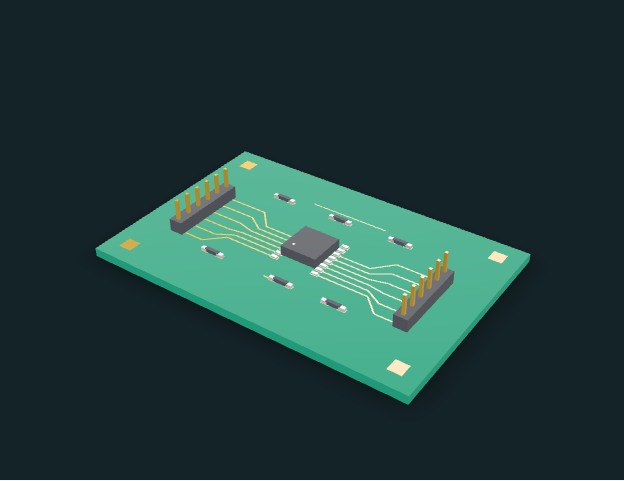
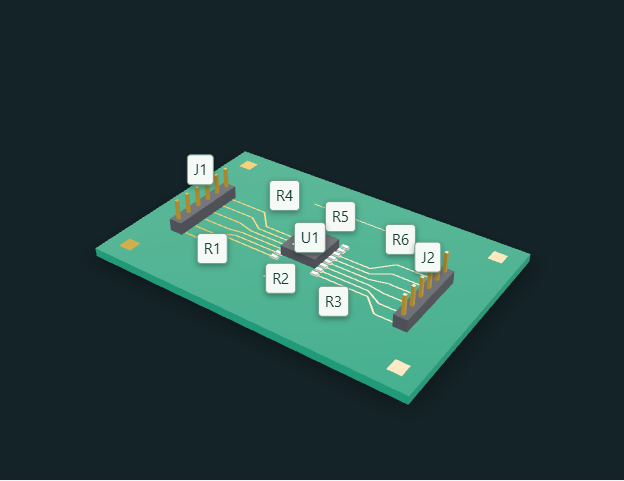
Add 3D component labels and hover identification

diff --git a/src/NativeBoard3D.tsx b/src/NativeBoard3D.tsx
@@ -3,6 +3,7 @@ import '@google/model-viewer';
 import {artifactUrl,demoMode,type Geometry,type Preview} from './api';
 import assignments from '../public/demo/models/assignments.json';
 import Board3D from './Board3D';
+import {useComponentLabels} from './ComponentLabels';
 
 export default function NativeBoard3D({pid,rid,model,geometry,preview}:{pid?:string;rid?:string;model?:Preview;geometry?:Geometry;preview?:Preview}){
  const [local,setLocal]=useState(''),[name,setName]=useState(''),[error,setError]=useState(''),[loaded,setLoaded]=useState(false);
@@ -11,11 +12,12 @@ export default function NativeBoard3D({pid,rid,model,geometry,preview}:{pid?:str
  const example=demoMode&&assignments.revisions.some(r=>r.revision===rid);
  const projectModel=pid&&rid&&model?artifactUrl(pid,rid,model.artifact):example?`${import.meta.env.BASE_URL}demo/models/${rid}.glb`:'';
  const src=local||(!fallback?projectModel:'');
+ const identifiers=useComponentLabels(viewer,geometry,preview,!!src&&!!example&&!local,src,assignments.revisions.find(r=>r.revision===rid)?.components);
  useEffect(()=>()=>{if(local)URL.revokeObjectURL(local)},[local]);
  useEffect(()=>{setLoaded(false);setError('');const el=viewer.current;if(!el)return;const ready=()=>setLoaded(true),fail=()=>setError('The 3D file could not be loaded. Choose a self-contained GLB exported from KiCad.');el.addEventListener('load',ready);el.addEventListener('error',fail);return()=>{el.removeEventListener('load',ready);el.removeEventListener('error',fail)}},[src]);
  async function open(file?:File){if(!file)return;setError('');if(file.size>100*1024*1024){setError('Choose a GLB smaller than 100 MB.');return}const bytes=new Uint8Array(await file.slice(0,4).arrayBuffer());if(String.fromCharCode(...bytes)!=='glTF'){setError('Choose a valid binary glTF (.glb) file.');return}setLocal(URL.createObjectURL(file));setName(file.name)}
- return <div className="native-board3d"><div className="native-model-toolbar"><strong>{src?(example&&!local?'KiCad library component models':'Native 3D model'):'3D geometry preview'}</strong><label className="native-model-open">Open GLB<input type="file" accept=".glb" onChange={e=>{void open(e.target.files?.[0]);e.target.value=''}}/></label>{local&&<button onClick={()=>{setLocal('');setName('');setFallback(false)}}>Use project model</button>}{projectModel&&!local&&<button onClick={()=>setFallback(v=>!v)}>{fallback?'Show component models':'Geometry preview'}</button>}</div>
+ return <div className="native-board3d"><div className="native-model-toolbar"><strong>{src?(example&&!local?'KiCad library component models':'Native 3D model'):'3D geometry preview'}</strong>{identifiers.control}<label className="native-model-open">Open GLB<input type="file" accept=".glb" onChange={e=>{void open(e.target.files?.[0]);e.target.value=''}}/></label>{local&&<button onClick={()=>{setLocal('');setName('');setFallback(false)}}>Use project model</button>}{projectModel&&!local&&<button onClick={()=>setFallback(v=>!v)}>{fallback?'Show component models':'Geometry preview'}</button>}</div>
  {error&&<p className="native-model-error" role="alert">{error}</p>}
- {src?<><div className="native-model-stage">{createElement('model-viewer',{ref:viewer,src,'camera-controls':true,'touch-action':'pan-y','shadow-intensity':'1.3',exposure:'1.1','environment-image':'neutral','camera-orbit':'35deg 55deg auto',alt:'Interactive native 3D PCB with component models',style:{width:'100%',height:'520px',background:'radial-gradient(ellipse at center, #35494d, #142328)'}})}{!loaded&&!error&&<p role="status">Loading native model…</p>}</div><p className="board3d-note">{name||(example?'9 official KiCad library models · R1–R6, U1, J1–J2':'KiCad board export')} · Drag to orbit, scroll to zoom, right-drag to pan. {example&&!local?<>Visual package assignments for this synthetic board; fit and clearances are not verified. Recorded engineering results are unchanged. <a href={`${import.meta.env.BASE_URL}demo/models/LICENSE.md`}>KiCad library license</a></>:'Component shapes come from the supplied model. Missing model assignments and mechanical clearances are not verified.'}</p></>:<><Board3D geometry={geometry} preview={preview}/><p className="board3d-note">For actual component shapes, open a GLB exported from KiCad, or rerun local analysis on a board with assigned STEP models. Include custom models in the project ZIP. GLB files opened here stay in your browser.</p></>}
+ {src?<><div className="native-model-stage">{createElement('model-viewer',{ref:viewer,src,'camera-controls':true,'touch-action':'pan-y','shadow-intensity':'1.3',exposure:'1.1','environment-image':'neutral','camera-orbit':'35deg 55deg auto',alt:'Interactive native 3D PCB with component models',style:{width:'100%',height:'520px',background:'radial-gradient(ellipse at center, #35494d, #142328)'}},identifiers.hotspots)}{identifiers.details}{!loaded&&!error&&<p role="status">Loading native model…</p>}</div><p className="board3d-note">{name||(example?'9 official KiCad library models · R1–R6, U1, J1–J2':'KiCad board export')} · Drag to orbit, scroll to zoom, right-drag to pan. {example&&!local?<>Visual package assignments for this synthetic board; fit and clearances are not verified. Recorded engineering results are unchanged. <a href={`${import.meta.env.BASE_URL}demo/models/LICENSE.md`}>KiCad library license</a></>:'Component shapes come from the supplied model. Missing model assignments and mechanical clearances are not verified.'}</p></>:<><Board3D geometry={geometry} preview={preview}/><p className="board3d-note">For actual component shapes, open a GLB exported from KiCad, or rerun local analysis on a board with assigned STEP models. Include custom models in the project ZIP. GLB files opened here stay in your browser.</p></>}
  </div>;
 }

diff --git a/src/Board3D.tsx b/src/Board3D.tsx
@@ -2,21 +2,23 @@ import {createElement,useEffect,useRef,useState} from 'react';
 import '@google/model-viewer';
 import type {Geometry,Preview} from './api';
 import {boardModel} from './boardModel';
+import {useComponentLabels} from './ComponentLabels';
 import './board3d.css';
 
 interface Camera extends HTMLElement {cameraOrbit:string;getCameraOrbit:()=>{theta:number;phi:number;radius:number};jumpCameraToGoal:()=>void;zoom:(steps:number)=>void}
 export default function Board3D({geometry,preview}:{geometry?:Geometry;preview?:Preview}){
  const [components,setComponents]=useState(true),[src,setSrc]=useState(''),[zoom,setZoom]=useState(1),[error,setError]=useState('');
  const viewer=useRef<Camera>(null);
+ const identifiers=useComponentLabels(viewer,geometry,preview,components,src);
  useEffect(()=>{if(!geometry?.objects.length)return;const url=URL.createObjectURL(boardModel(geometry,preview,components));setSrc(url);return()=>URL.revokeObjectURL(url)},[geometry,preview,components]);
  useEffect(()=>{const el=viewer.current;if(!el)return;const fail=()=>setError('The 3D renderer could not load. Try reloading this page in a browser with WebGL enabled.');el.addEventListener('error',fail);return()=>el.removeEventListener('error',fail)},[src]);
  const orbit=(theta:number,phi:number)=>{const el=viewer.current;if(el)el.cameraOrbit=`${theta}rad ${phi}rad ${el.getCameraOrbit().radius}m`};
  const reset=()=>{if(viewer.current)viewer.current.cameraOrbit='35deg 55deg auto';setZoom(1)};
  const magnify=(factor:number)=>{const el=viewer.current;if(el){const o=el.getCameraOrbit();el.cameraOrbit=`${o.theta}rad ${o.phi}rad ${o.radius/factor}m`;setZoom(z=>Math.min(5,Math.max(.3,z*factor)))}};
  if(!geometry?.objects.length)return <div className="board3d-empty"><h3>3D preview unavailable</h3><p>Open a project with board geometry, or rerun its checks to generate the preview.</p></div>;
- return <div className="board3d"><div className="board3d-toolbar"><div><button onClick={()=>magnify(1/1.25)} aria-label="Zoom out 3D">−</button><span>{Math.round(zoom*100)}%</span><button onClick={()=>magnify(1.25)} aria-label="Zoom in 3D">+</button><button onClick={reset}>Reset view</button><button onClick={()=>orbit(0,.001)}>Top</button><button onClick={()=>orbit(0,Math.PI-.001)}>Bottom</button></div><label><input type="checkbox" checked={components} onChange={e=>setComponents(e.target.checked)}/>Components</label></div>
+ return <div className="board3d"><div className="board3d-toolbar"><div><button onClick={()=>magnify(1/1.25)} aria-label="Zoom out 3D">−</button><span>{Math.round(zoom*100)}%</span><button onClick={()=>magnify(1.25)} aria-label="Zoom in 3D">+</button><button onClick={reset}>Reset view</button><button onClick={()=>orbit(0,.001)}>Top</button><button onClick={()=>orbit(0,Math.PI-.001)}>Bottom</button></div>{identifiers.control}<label><input type="checkbox" checked={components} onChange={e=>setComponents(e.target.checked)}/>Components</label></div>
  {error&&<p role="alert">{error}</p>}
  <div className="board3d-webgl" role="img" aria-label="Interactive 3D board preview" tabIndex={0} data-components={components?'visible':'hidden'} onKeyDown={e=>{const el=viewer.current;if(!el)return;if(e.key.startsWith('Arrow')){e.preventDefault();const o=el.getCameraOrbit();orbit(o.theta+(e.key==='ArrowLeft'?-.15:e.key==='ArrowRight'?.15:0),Math.max(.001,Math.min(Math.PI-.001,o.phi+(e.key==='ArrowUp'?-.15:e.key==='ArrowDown'?.15:0))))}if(e.key.toLowerCase()==='f')reset()}}>
- {src&&createElement('model-viewer',{ref:viewer,src,'camera-controls':true,'touch-action':'none','shadow-intensity':'1','environment-image':'neutral','camera-orbit':'35deg 55deg auto','min-camera-orbit':'auto 0deg 10%','max-camera-orbit':'auto 180deg 500%',alt:'Board with representative resistors, capacitors, IC leads and connector pins',style:{display:'block',width:'100%',height:'480px'}})}
+ {src&&createElement('model-viewer',{ref:viewer,src,'camera-controls':true,'touch-action':'none','shadow-intensity':'1','environment-image':'neutral','camera-orbit':'35deg 55deg auto','min-camera-orbit':'auto 0deg 10%','max-camera-orbit':'auto 180deg 500%',alt:'Board with representative resistors, capacitors, IC leads and connector pins',style:{display:'block',width:'100%',height:'480px'}},identifiers.hotspots)}{identifiers.details}
  </div><div className="board3d-hint">Drag to rotate · Scroll to zoom · Right-drag to pan · Arrow keys to orbit</div><p className="board3d-note">Representative package shapes from pad locations and component references. These are not manufacturer models. Board thickness, heights and rectangular outline are illustrative. Components on the far side are hidden by the board.</p></div>;
 }

diff --git a/src/ComponentLabels.tsx b/src/ComponentLabels.tsx
@@ -1,0 +1,36 @@
+import {useEffect,useMemo,useState,type RefObject} from 'react';
+import type {Geometry,Preview} from './api';
+
+interface Picker extends HTMLElement {positionAndNormalFromPoint?:(x:number,y:number)=>{position:{x:number;y:number;z:number}}|null}
+const noModels:{reference:string;model:string}[]=[];
+export function useComponentLabels(viewer:RefObject<HTMLElement|null>,geometry:Geometry|undefined,preview:Preview|undefined,enabled:boolean,source:string,models:{reference:string;model:string}[]=noModels){
+ const [labels,setLabels]=useState(true),[active,setActive]=useState<string>();
+ const parts=useMemo(()=>{
+  const objects=geometry?.objects||[];
+  return objects.filter(o=>o.kind==='component'&&o.reference).map(o=>{
+   const pads=objects.filter(p=>p.kind==='pad'&&p.reference===o.reference),pts=(pads.length?pads: [o]).flatMap(p=>p.points);
+   const xs=pts.map(p=>p[0]),ys=pts.map(p=>p[1]),x0=Math.min(...xs),x1=Math.max(...xs),y0=Math.min(...ys),y1=Math.max(...ys);
+   const type=/^R\d/i.test(o.reference!)?'Resistor':/^C\d/i.test(o.reference!)?'Capacitor':/^J\d/i.test(o.reference!)?'Connector / pin header':/^U\d/i.test(o.reference!)?'Integrated circuit':'Component';
+   return {reference:o.reference!,type,x0,x1,y0,y1,x:(x0+x1)/2,y:(y0+y1)/2,pads:pads.length,nets:[...new Set(pads.map(p=>p.net).filter(Boolean))],model:models.find(m=>m.reference===o.reference)?.model,back:o.layer?.toUpperCase().startsWith('B.'),value:(o as typeof o&{value?:string}).value};
+  });
+ },[geometry,models]);
+ const all=geometry?.objects.flatMap(o=>o.points)||[],bounds=preview?.bounds_mm||(all.length?[Math.min(...all.map(p=>p[0])),Math.min(...all.map(p=>p[1])),Math.max(...all.map(p=>p[0])),Math.max(...all.map(p=>p[1]))]:undefined);
+ const cx=bounds?(bounds[0]+bounds[2])/2:0,cy=bounds?(bounds[1]+bounds[3])/2:0;
+ useEffect(()=>{setActive(undefined);const el=viewer.current as Picker|null;if(!el||!enabled)return;
+  let frame=0;
+  const move=(event:PointerEvent)=>{cancelAnimationFrame(frame);if(event.buttons){setActive(undefined);return}if((event.target as HTMLElement).closest?.('[data-component-label]'))return;
+   frame=requestAnimationFrame(()=>{const hit=el.positionAndNormalFromPoint?.(event.clientX,event.clientY);if(!hit){setActive(undefined);return}const x=hit.position.x+cx,y=cy-hit.position.z;
+    const part=parts.find(p=>x>=p.x0-.8&&x<=p.x1+.8&&y>=p.y0-.8&&y<=p.y1+.8&&(p.back?hit.position.y< -1.65:hit.position.y>.2));setActive(part?.reference);
+   });
+  };
+  const clear=()=>{cancelAnimationFrame(frame);setActive(undefined)};
+  el.addEventListener('pointermove',move);el.addEventListener('pointerleave',clear);el.addEventListener('camera-change',clear);
+  return()=>{cancelAnimationFrame(frame);el.removeEventListener('pointermove',move);el.removeEventListener('pointerleave',clear);el.removeEventListener('camera-change',clear)};
+ },[viewer,enabled,source,parts,cx,cy]);
+ const part=enabled?parts.find(p=>p.reference===active):undefined;
+ return {
+  control:enabled?<label className="component-label-toggle"><input type="checkbox" checked={labels} onChange={e=>setLabels(e.target.checked)}/>Labels</label>:null,
+  hotspots:enabled&&labels?parts.map(p=><button key={p.reference} slot={`hotspot-${p.reference}`} data-component-label={p.reference} data-position={`${p.x-cx}m ${p.back?-5.5:p.type==='Connector / pin header'?9:p.type==='Integrated circuit'?3.1:1.1}m ${cy-p.y}m`} data-normal={p.back?'0 -1 0':'0 1 0'} data-visibility-attribute="visible" className={`component-hotspot ${active===p.reference?'active':''}`} aria-label={`${p.reference}: ${p.type}`} onPointerEnter={()=>setActive(p.reference)} onPointerLeave={()=>setActive(undefined)} onFocus={()=>setActive(p.reference)} onBlur={()=>setActive(undefined)} onClick={()=>setActive(p.reference)} title={`${p.reference} · ${p.type}`}>{p.reference}</button>):null,
+  details:part?<div className="component-tooltip" role="tooltip"><strong>{part.reference} <span>{part.type}</span></strong>{part.model&&<p>{part.model.replace(/\.wrl$/,'')}</p>}{part.value&&part.value!=='Review fixture'&&<p>Value: {part.value}</p>}<p>{part.pads} pads · {part.back?'Bottom':'Top'} side</p>{!!part.nets.length&&<p>Nets: {part.nets.join(', ')}</p>}<small>{part.model?'KiCad library package model':'Type inferred from reference; package shape is illustrative'}</small></div>:null,
+ };
+}

diff --git a/src/board3d.css b/src/board3d.css
@@ -1,2 +1,3 @@
 .board3d{background:#142328;color:#c1d4d1;position:relative;min-width:0}.board3d-toolbar{display:flex;justify-content:space-between;gap:10px;flex-wrap:wrap;padding:10px;border-bottom:1px solid #34484c;font-size:12px}.board3d-toolbar>div{display:flex;align-items:center;gap:8px}.board3d-toolbar button{padding:6px 9px;border:1px solid #48605f;border-radius:4px;color:#deede9;background:#243c40}.board3d-toolbar label{display:flex;align-items:center;gap:5px}.board3d-scene{display:block;width:100%;min-height:320px;max-height:620px;touch-action:none;cursor:grab;background:radial-gradient(ellipse at center,#284146,#132226 75%)}.board3d-scene:active{cursor:grabbing}.board3d-hint{text-align:center;font-size:12px;padding:10px}.board3d-note{font-size:12px;line-height:1.7;margin:0;padding:12px 18px;background:#1b3034;color:#aec6c1}.board3d-empty{padding:100px 24px;text-align:center;background:#142328;color:#c1d4d1}.board3d-empty p{font-size:13px;margin-top:12px}
 .native-model-toolbar{display:flex;align-items:center;gap:12px;flex-wrap:wrap;padding:12px;background:#20363a;color:#dcebe7;font-size:12px}.native-model-open,.native-model-toolbar button{position:relative;overflow:hidden;border:1px solid #59726e;border-radius:4px;padding:7px 12px;cursor:pointer}.native-model-open input{position:absolute;inset:0;opacity:0;cursor:pointer;width:100%}.native-model-error{padding:12px;color:#a63829;background:#fff0e8}.native-model-stage{position:relative}.native-model-stage>p{position:absolute;bottom:20px;left:20px;color:#dcebe7;font-size:12px}
+.board3d-webgl{position:relative}.component-label-toggle{display:flex;align-items:center;gap:5px;cursor:pointer}.component-hotspot{background:#f6faf7;color:#193e38;border:1px solid #739e8e;border-radius:4px;padding:3px 6px;font:600 11px ui-monospace,monospace;box-shadow:0 2px 6px #0005;cursor:pointer;transition:opacity .12s}.component-hotspot:not([data-visible]){opacity:0;pointer-events:none}.component-hotspot.active,.component-hotspot:focus-visible{background:#ffe4a6;color:#30200a;outline:2px solid #e5b74d;outline-offset:2px}.component-tooltip{position:absolute;left:14px;bottom:14px;z-index:5;max-width:calc(100% - 28px);padding:12px 15px;border:1px solid #5e827a;border-radius:6px;background:#112b2af2;color:#e8f3ee;box-shadow:0 5px 22px #0005;font-size:12px;pointer-events:none}.component-tooltip strong{display:block;font-size:15px}.component-tooltip strong span{font-size:12px;font-weight:400;margin-left:8px;color:#c5ded5}.component-tooltip p{margin:5px 0;overflow-wrap:anywhere}.component-tooltip small{color:#9bbfb0;font-size:11px}

diff --git a/pages-tests/board3d.spec.ts b/pages-tests/board3d.spec.ts
@@ -1,5 +1,32 @@
 import {test,expect} from '@playwright/test';
 
+test('component labels identify library packages and hovering component bodies shows details',async({page})=>{
+ await page.goto('./');
+ await page.getByRole('button',{name:'Design review',exact:true}).click();
+ await page.getByRole('button',{name:'3D',exact:true}).click();
+ const model=page.locator('.native-model-stage model-viewer');
+ await expect.poll(()=>model.evaluate((el:any)=>el.loaded)).toBe(true);
+ const label=page.getByRole('button',{name:'U1: Integrated circuit',exact:true});
+ await expect(label).toBeVisible();
+ await label.hover();
+ await expect(page.getByRole('tooltip')).toContainText('SOIC-16W_7.5x10.3mm_P1.27mm');
+ await expect(page.getByRole('tooltip')).toContainText('16 pads');
+ await label.focus();
+ await expect(page.getByRole('tooltip')).toContainText('Integrated circuit');
+ await page.getByLabel('Labels',{exact:true}).uncheck();
+ await expect(label).toHaveCount(0);
+ // Find an actual surface point on the centre IC, rather than hovering its label.
+ const point=await model.evaluate((el:any)=>{const r=el.getBoundingClientRect();for(let y=r.top+20;y<r.bottom-20;y+=5)for(let x=r.left+20;x<r.right-20;x+=5){const p=el.positionAndNormalFromPoint(x,y)?.position;if(p&&Math.abs(p.x)<3&&p.z< -2&&p.z> -6&&p.y>1)return {x,y}}return null});
+ expect(point).not.toBeNull();
+ await page.mouse.move(point!.x,point!.y);
+ await expect(page.getByRole('tooltip')).toContainText('U1');
+ await expect(page.getByRole('tooltip')).toContainText('Nets:');
+ await page.getByLabel('Labels',{exact:true}).check();
+ await page.getByRole('button',{name:'R1: Resistor',exact:true}).hover();
+ await expect(page.getByRole('tooltip')).toContainText('R_1206_3216Metric');
+ await page.locator('.native-model-stage').screenshot({path:'screenshots/3d-component-identifiers.png'});
+});
+
 test('3D is available on the initial revision comparison screen',async({page})=>{
  await page.goto('./');
  const switcher=page.getByRole('group',{name:'Comparison design type',exact:true});
